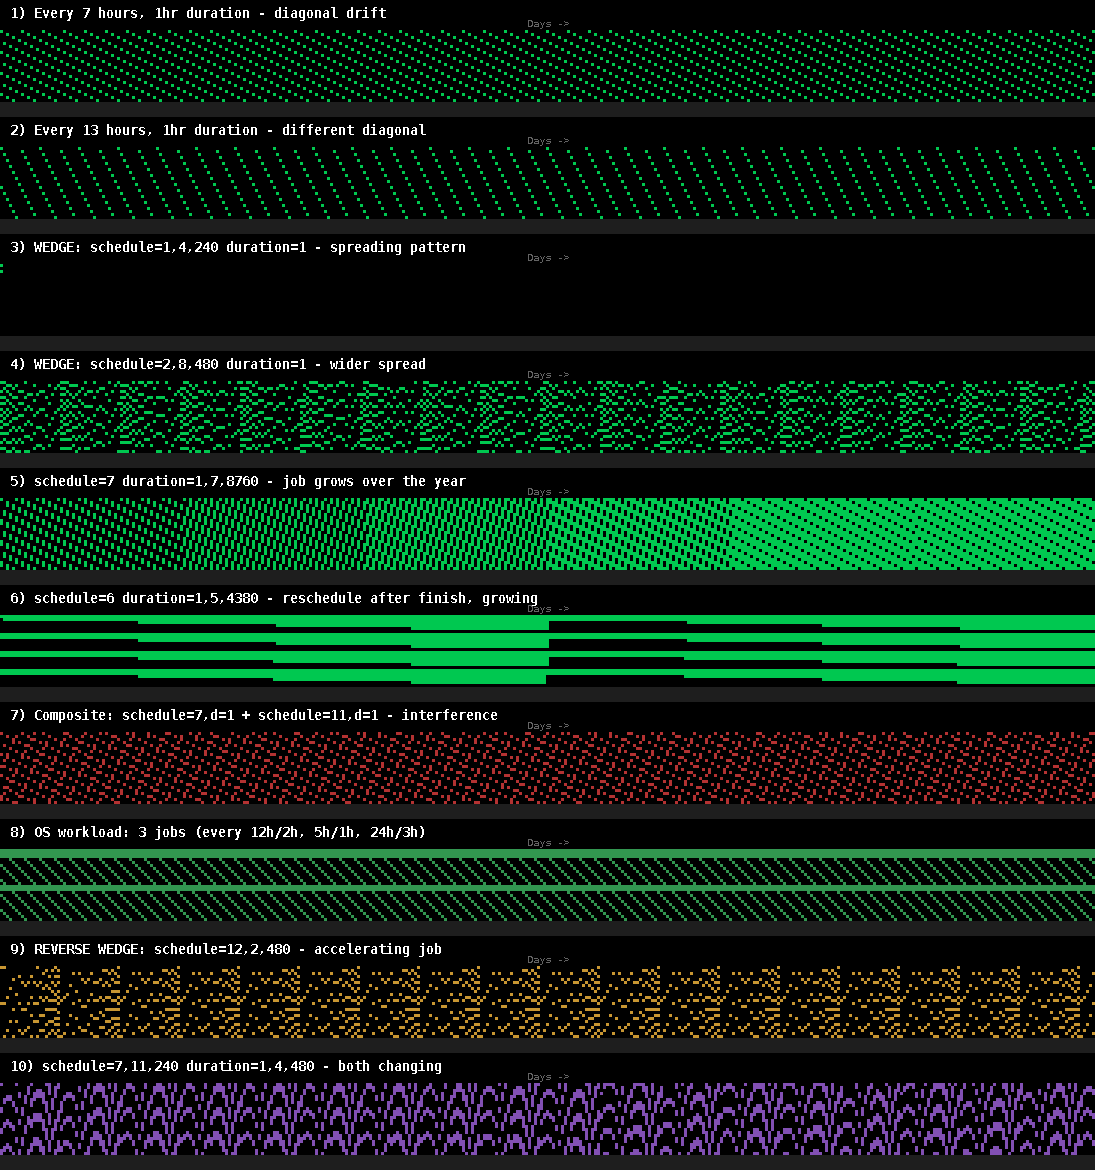
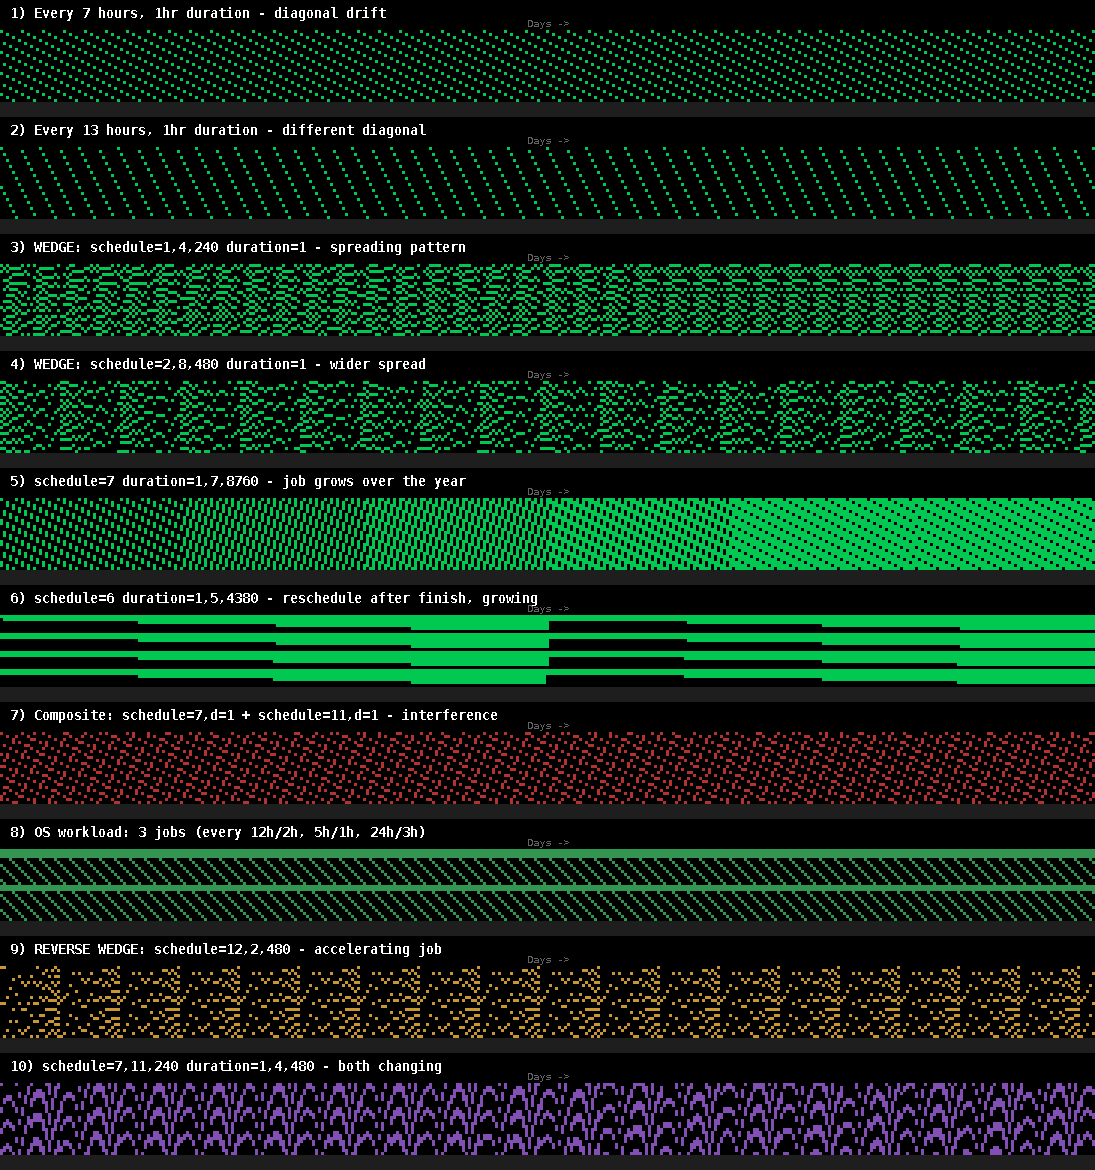
Fix reschedule bug causing wedge and other patterns to go black
The reschedule() method only fired on the running->not-running transition,
but the newly calculated time window could overlap the current hour. Since
isRunning was already set to false before reschedule ran, the job got
permanently stuck as not-running.

Fix: re-check isRunning after rescheduling, and advance past any
completely-missed windows with a while loop. Regenerated all images.

https://claude.ai/code/session_01F311SXdwXS95XDa5VEHYLw

Changed region(s): [[0.0, 0.2154, 1.0, 0.3077]]

diff --git a/LiquidMapGenerator.java b/LiquidMapGenerator.java
@@ -66,6 +66,16 @@ public class LiquidMapGenerator {
             if (!isRunning && prevRunning) {
                 nextStartHour += schedule.get(currentHour);
                 nextEndHour = nextStartHour + Math.ceil(duration.get(currentHour));
+                // Re-check: the new window may include the current hour
+                isRunning = currentHour >= nextStartHour && currentHour < nextEndHour;
+            }
+            // Advance past any windows we've completely missed
+            while (currentHour >= nextEndHour) {
+                double oldStart = nextStartHour;
+                nextStartHour += schedule.get(currentHour);
+                nextEndHour = nextStartHour + Math.ceil(duration.get(currentHour));
+                if (nextStartHour <= oldStart) break; // safety valve
+                isRunning = currentHour >= nextStartHour && currentHour < nextEndHour;
             }
         }
     }
